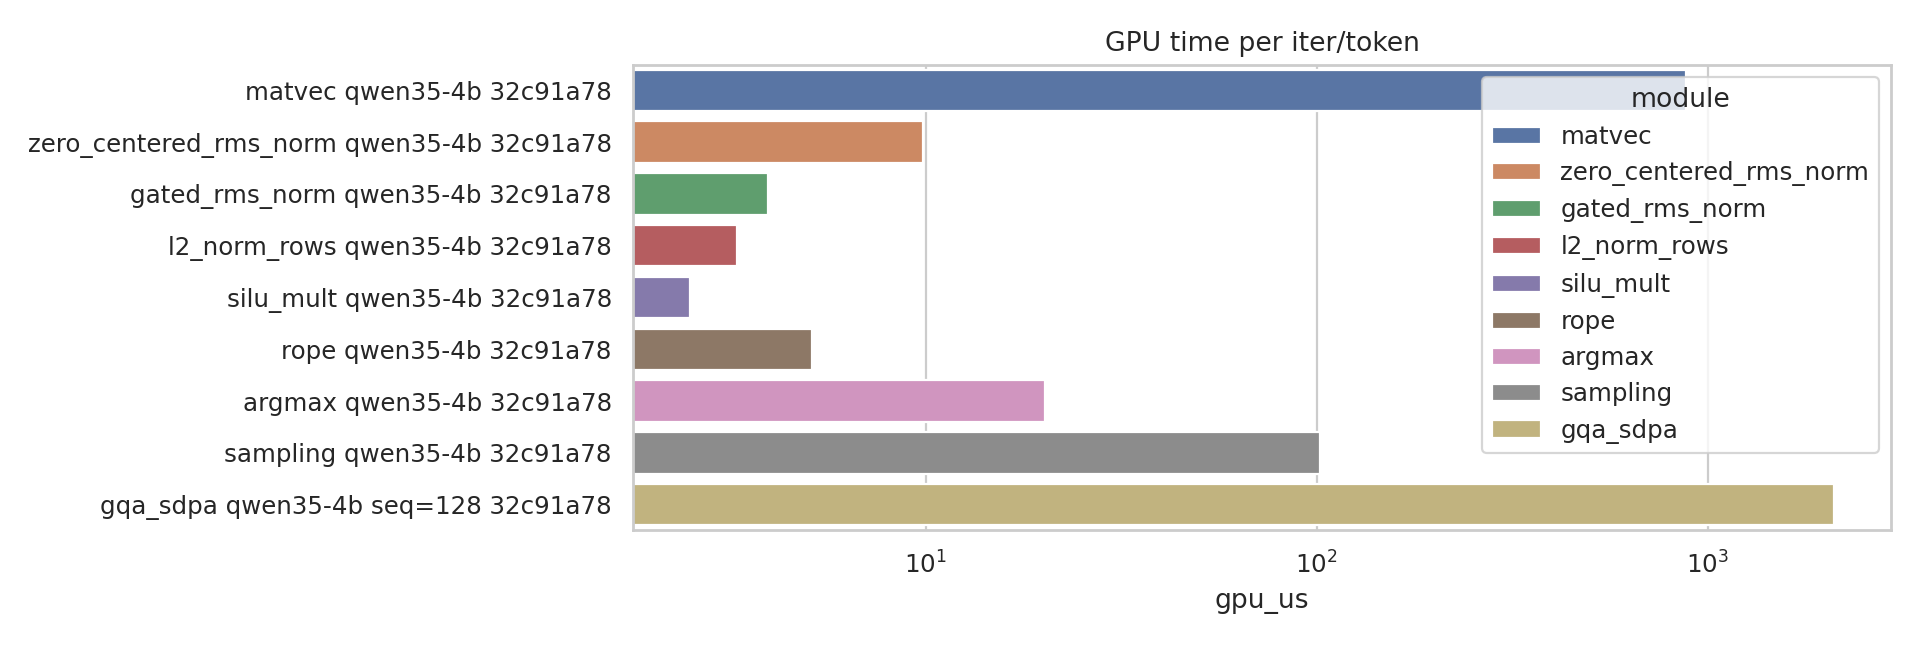
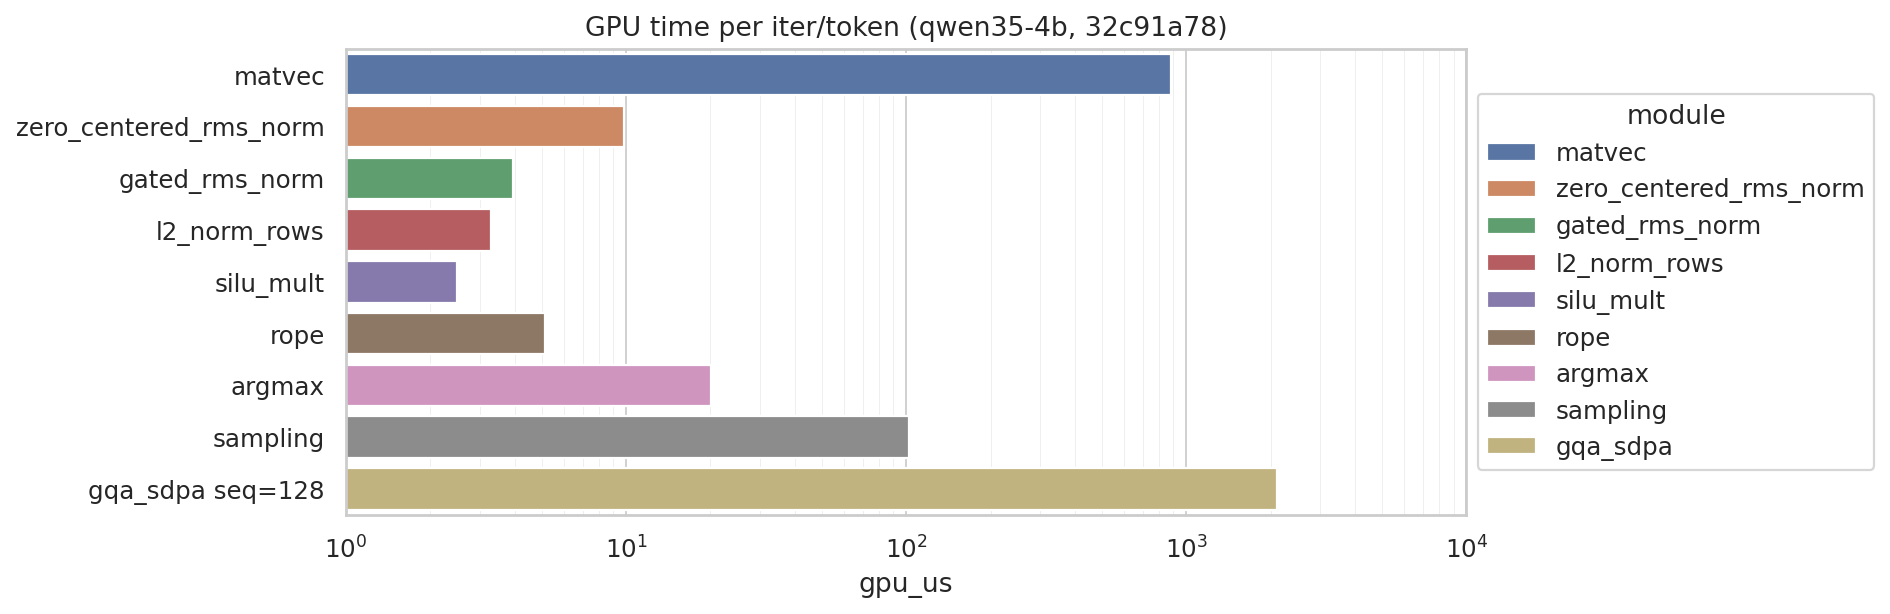
plotting related improvements

Changed region(s): [[0.0, 0.0309, 0.9989, 0.9593], [0.437, 0.9283, 0.4995, 0.9902], [0.1561, 0.8664, 0.1873, 0.8974]]

diff --git a/plots/plot_benchmarks.py b/plots/plot_benchmarks.py
@@ -3,9 +3,11 @@ from __future__ import annotations
 
 import argparse
 import json
+import math
 from pathlib import Path
 from typing import Any
 
+import matplotlib.ticker as mticker
 import matplotlib.pyplot as plt
 import pandas as pd
 import seaborn as sns
@@ -56,13 +58,11 @@ def flatten_result(data: dict[str, Any], path: Path) -> dict[str, Any]:
 
 
 def make_display_label(row: pd.Series) -> str:
-    pieces = [str(row.get("module", "")), str(row.get("preset", ""))]
+    pieces = [str(row.get("module", ""))]
     if pd.notna(row.get("seq_len")):
         pieces.append(f"seq={int(row['seq_len'])}")
     if row.get("label"):
         pieces.append(str(row["label"]))
-    if row.get("git_short"):
-        pieces.append(str(row["git_short"]))
     return " ".join(piece for piece in pieces if piece and piece != "nan")
 
 
@@ -129,6 +129,72 @@ def artifact_out_dir(df: pd.DataFrame, out_dir: Path) -> Path:
     return out_dir / artifact_identity(df)
 
 
+def title_for(title: str, df: pd.DataFrame) -> str:
+    identity = artifact_identity(df)
+    title_pieces: list[str] = []
+    presets = sorted(str(preset) for preset in df["preset"].dropna().unique() if str(preset))
+    if len(presets) == 1:
+        title_pieces.append(presets[0])
+    if identity not in {"unknown", "mixed"}:
+        title_pieces.append(identity)
+    if not title_pieces:
+        return title
+    return f"{title} ({', '.join(title_pieces)})"
+
+
+def log_axis_limit(df: pd.DataFrame, column: str) -> tuple[float, float] | None:
+    values = pd.to_numeric(df[column], errors="coerce").dropna()
+    values = values[values > 0]
+    if values.empty:
+        return None
+
+    lower = 10 ** math.floor(math.log10(values.min()))
+    upper = 10 ** math.ceil(math.log10(values.max()))
+    if values.max() / upper > 0.75:
+        upper *= 10
+    return min(lower, 1.0), max(upper, 1.0)
+
+
+def log_axis_limits(df: pd.DataFrame, columns: list[str]) -> dict[str, tuple[float, float]]:
+    limits: dict[str, tuple[float, float]] = {}
+    for column in columns:
+        limit = log_axis_limit(df, column)
+        if limit is not None:
+            limits[column] = limit
+    return limits
+
+
+def configure_log_x_axis(ax: plt.Axes, xlim: tuple[float, float] | None) -> None:
+    ax.set_xscale("log")
+    if xlim is not None:
+        ax.set_xlim(*xlim)
+    ax.xaxis.set_major_locator(mticker.LogLocator(base=10, numticks=20))
+    ax.xaxis.set_major_formatter(mticker.LogFormatterMathtext(base=10))
+    ax.xaxis.set_minor_locator(mticker.LogLocator(base=10, subs=(2, 3, 4, 5, 6, 7, 8, 9), numticks=100))
+    ax.xaxis.set_minor_formatter(mticker.NullFormatter())
+    ax.grid(True, axis="x", which="major", linewidth=0.8)
+    ax.grid(True, axis="x", which="minor", linewidth=0.4, alpha=0.35)
+
+
+def add_bar_value_labels(ax: plt.Axes, values: pd.Series, *, suffix: str = "") -> None:
+    labels = [f"{value:.2f}{suffix}" if pd.notna(value) else "" for value in values]
+    for patch, label in zip(ax.patches, labels):
+        if not label:
+            continue
+        width = patch.get_width()
+        if not math.isfinite(width) or width <= 0:
+            continue
+        ax.annotate(
+            label,
+            xy=(width, patch.get_y() + patch.get_height() / 2),
+            xytext=(4, 0),
+            textcoords="offset points",
+            ha="left",
+            va="center",
+            fontsize=8,
+        )
+
+
 def save_barplot(
     df: pd.DataFrame,
     *,
@@ -137,6 +203,9 @@ def save_barplot(
     filename: str,
     out_dir: Path,
     log_scale: bool = False,
+    xlim: tuple[float, float] | None = None,
+    show_value_labels: bool = False,
+    value_suffix: str = "",
 ) -> Path | None:
     plot_df = df.dropna(subset=[y]).copy()
     if plot_df.empty:
@@ -146,16 +215,18 @@ def save_barplot(
     height = max(4.0, 0.45 * len(plot_df))
     fig, ax = plt.subplots(figsize=(12, height))
     sns.barplot(data=plot_df, x=y, y="display_label", hue="module", dodge=False, ax=ax)
-    ax.set_title(title)
+    ax.set_title(title_for(title, df))
     ax.set_xlabel(y)
     ax.set_ylabel("")
     if log_scale:
-        ax.set_xscale("log")
-    ax.legend(loc="best", title="module")
+        configure_log_x_axis(ax, xlim)
+    if show_value_labels:
+        add_bar_value_labels(ax, plot_df[y], suffix=value_suffix)
+    ax.legend(loc="center left", bbox_to_anchor=(1.01, 0.5), borderaxespad=0, title="module")
     fig.tight_layout()
 
     out_path = out_dir / filename_for(filename, df)
-    fig.savefig(out_path, dpi=160)
+    fig.savefig(out_path, dpi=160, bbox_inches="tight")
     plt.close(fig)
     return out_path
 
@@ -180,12 +251,30 @@ def write_plot_metadata(df: pd.DataFrame, out_dir: Path, paths: list[Path]) -> P
     return metadata_path
 
 
-def generate_outputs(df: pd.DataFrame, out_dir: Path) -> list[Path]:
+def generate_outputs(df: pd.DataFrame, out_dir: Path, axis_limits: dict[str, tuple[float, float]]) -> list[Path]:
     out_dir = artifact_out_dir(df, out_dir)
     paths: list[Path] = []
     for maybe_path in [
-        save_barplot(df, y="gpu_us", title="GPU time per iter/token", filename="gpu_time.png", out_dir=out_dir, log_scale=True),
-        save_barplot(df, y="speedup", title="CPU/GPU speedup", filename="speedup.png", out_dir=out_dir, log_scale=True),
+        save_barplot(
+            df,
+            y="gpu_us",
+            title="GPU time per iter/token",
+            filename="gpu_time.png",
+            out_dir=out_dir,
+            log_scale=True,
+            xlim=axis_limits.get("gpu_us"),
+        ),
+        save_barplot(
+            df,
+            y="speedup",
+            title="CPU/GPU speedup",
+            filename="speedup.png",
+            out_dir=out_dir,
+            log_scale=True,
+            xlim=axis_limits.get("speedup"),
+            show_value_labels=True,
+            value_suffix="x",
+        ),
         save_barplot(df, y="tokens_per_sec", title="Forward tokens/sec", filename="tokens_per_sec.png", out_dir=out_dir),
     ]:
         if maybe_path is not None:
@@ -194,11 +283,11 @@ def generate_outputs(df: pd.DataFrame, out_dir: Path) -> list[Path]:
     return paths
 
 
-def generate_outputs_by_commit(df: pd.DataFrame, out_dir: Path) -> list[Path]:
+def generate_outputs_by_commit(df: pd.DataFrame, out_dir: Path, axis_limits: dict[str, tuple[float, float]]) -> list[Path]:
     paths: list[Path] = []
     commit_keys = df["git_commit"].fillna("")
     for _, group_df in df.groupby(commit_keys, sort=True):
-        paths.extend(generate_outputs(group_df.copy(), out_dir))
+        paths.extend(generate_outputs(group_df.copy(), out_dir, axis_limits))
     return paths
 
 
@@ -215,8 +304,13 @@ def main() -> int:
 
     sns.set_theme(style="whitegrid", context="notebook")
 
+    all_df = load_results(args.results_dir)
+    if all_df.empty:
+        print(f"No benchmark JSON files found in {args.results_dir}")
+        return 1
+
     processed_input_files = set() if args.replot_all else load_processed_input_files(args.out_dir)
-    df = load_results(args.results_dir, processed_input_files)
+    df = all_df if args.replot_all else load_results(args.results_dir, processed_input_files)
     if df.empty:
         if processed_input_files:
             print(f"No new benchmark JSON files found in {args.results_dir}")
@@ -224,7 +318,8 @@ def main() -> int:
         print(f"No benchmark JSON files found in {args.results_dir}")
         return 1
 
-    paths = generate_outputs_by_commit(df, args.out_dir)
+    axis_limits = log_axis_limits(all_df, ["gpu_us", "speedup"])
+    paths = generate_outputs_by_commit(df, args.out_dir, axis_limits)
     print(df.to_string(index=False))
     print()
     for path in paths:
